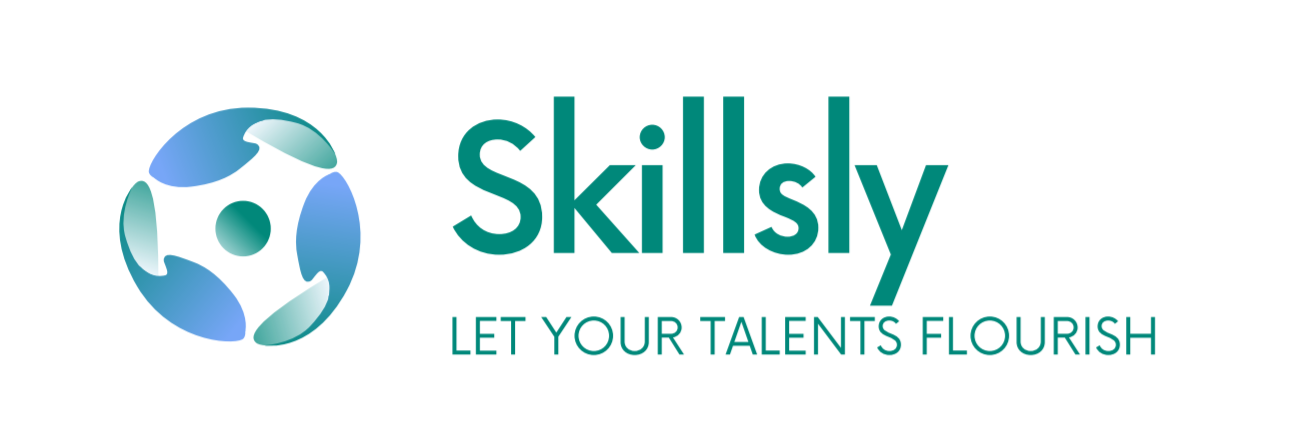
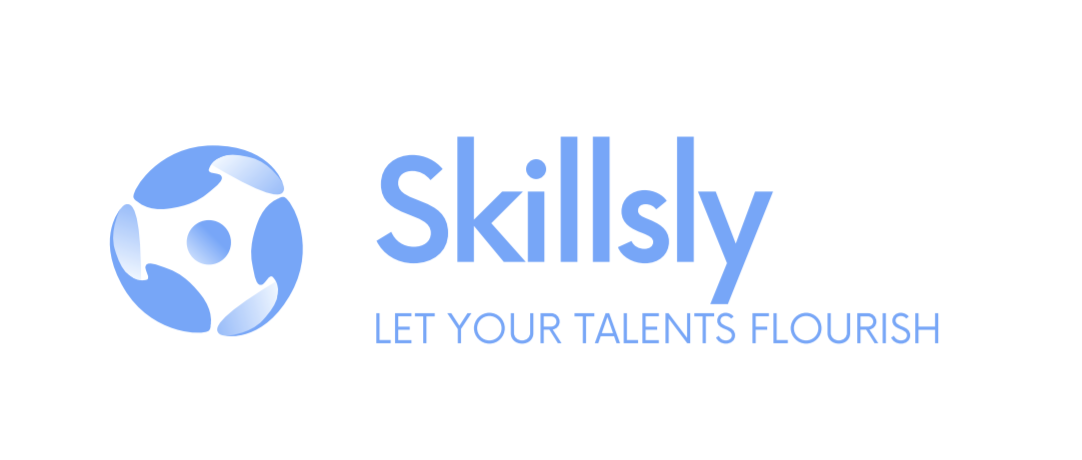
redesign finished

Changed region(s): [[0.3355, 0.2068, 0.915, 0.8273], [0.0915, 0.2364, 0.305, 0.7977]]

diff --git a/src/app/auth/register/register.component.html b/src/app/auth/register/register.component.html
@@ -1,83 +1,57 @@
-<!-- Login box.scss -->
-<!-- ============================================================== -->
-<div class="auth-wrapper d-flex no-block justify-content-center align-items-center bg-dark h-100">
-  <div class="auth-box bg-dark border-top border-secondary">
-    <div>
-      <div class="text-center pt-3 pb-3">
-                <span class="db"><img src="../assets/images/logo.png" alt="logo"
-                /></span>
-      </div>
-      <!-- Form -->
-      <form class="form-horizontal mt-3" [formGroup]="form" (ngSubmit)="saveForm()">
-        <div class="row pb-4">
-          <div class="col-md-auto">
-            <div class="input-group mb-3">
-              <div class="input-group-prepend">
-                <span class="input-group-text bg-success text-white h-100" id="basic-addon1"><i
-                  class="mdi mdi-account fs-4"></i></span>
-              </div>
-              <input type="text" class="form-control form-control-lg" formControlName="name" placeholder="Tu Nombre"
-                     aria-label="Username" aria-describedby="basic-addon1" required/>
-            </div>
-            <div class="col text-danger">
-              <p *ngIf="invalidInput('name')">* El nombre es obligatorio, mínimo 4 carácteres</p>
-            </div>
-            <div class="input-group mb-3">
-              <div class="input-group-prepend">
-                <span class="input-group-text bg-danger text-white h-100" id="basic-addon1"><i
-                  class="mdi mdi-email fs-4"></i></span>
-              </div>
-              <input type="text" class="form-control form-control-lg" formControlName="email" placeholder="Tu Email"
-                     aria-label="Username" aria-describedby="basic-addon1" required/>
-            </div>
-            <div class="col text-danger">
-              <p *ngIf="invalidInput('email')">* El email es obligatorio y tiene que ser válido</p>
-            </div>
-            <div class="input-group mb-3">
-              <div class="input-group-prepend">
-                <span class="input-group-text bg-warning text-white h-100" id="basic-addon2"><i
-                  class="mdi mdi-lock fs-4"></i></span>
-              </div>
-              <input type="password" class="form-control form-control-lg" formControlName="password" [feedback]="false"
-                     placeholder="Tu Contraseña" aria-label="Password" aria-describedby="basic-addon1" required
-                     pPassword/>
-            </div>
-            <div class="col text-danger">
-              <p *ngIf="invalidInput('password')">* La contraseña es obligatoria y debe contener:</p>
-              <ul _ngcontent-cmx-c54="" *ngIf="invalidInput('password')">
-                <li _ngcontent-cmx-c54="">Al menos una minúscula</li>
-                <li _ngcontent-cmx-c54="">Al menos una mayúscula</li>
-                <li _ngcontent-cmx-c54="">Al menos un número</li>
-                <li _ngcontent-cmx-c54="">Mínimo 8 carácteres</li>
-              </ul>
-            </div>
-            <div class="input-group mb-3">
-              <div class="input-group-prepend">
-                <span class="input-group-text bg-info text-white h-100" id="basic-addon2"><i
-                  class="mdi mdi-brightness-6 fs-4"></i></span>
-              </div>
-              <p-calendar placeholder="Tu Fecha de Nacimiento" [maxDate]="today" formControlName="date_of_birth"
-                          dateFormat="dd/mm/yy" [yearNavigator]="true" yearRange="1930:2021" [readonlyInput]="true"
-                          inputId="monthpicker" [showIcon]="true"></p-calendar>
-            </div>
-          </div>
+<div class="row justify-content-center" style="height: 100%;">
+    <div class="col-md-4 align-self-center text-end">
+        <div class="img">
+            <img src="../../../assets/images/logo.png" width="100%" height="100%">
         </div>
-        <div class="row border-top border-secondary ">
-          <div class="col-12 ">
-            <div class="form-group ">
-              <div class="pt-3 d-grid ">
-                <button class="btn btn-block btn-lg btn-info " type="submit">
-                  Registrarse
-                </button>
-                <a class="mt-2" [routerLink]="['/login']">¿Ya tienes una cuenta?</a>
-              </div>
-            </div>
-          </div>
-        </div>
-      </form>
     </div>
-  </div>
+    <div class="col-md-6 align-self-center">
+        <div class="card m-md-4">
+            <div class="title mt-md-4 text-center">
+                <h3>Únete a la familia de Skillsly</h3>
+            </div>
+            <form class="m-md-5 mt-md-1 mb-md-1" [formGroup]="form" (ngSubmit)="saveForm()">
+                <p-divider></p-divider>
+                <div class="mt-md-4">
+                    <span class="p-float-label p-input-icon-left" style="width: 100%;">
+                          <i class="pi pi-user"></i>
+                          <input style="width: 100%;" id="float-input" type="text" formControlName="name" pInputText> 
+                          <label for="float-input">Nombre</label>
+                      </span>
+                    <div class="error mt-md-2">
+                        <p *ngIf="invalidInput('name')">El nombre debe contener mínimo 4 carácteres.</p>
+                    </div>
+                </div>
+                <div class="mt-md-4">
+                    <span class="p-float-label p-input-icon-left" style="width: 100%;">
+                        <i class="pi pi-envelope"></i>
+                        <input style="width: 100%;" id="float-input" type="text" formControlName="email" pInputText> 
+                        <label for="float-input">Correo</label>
+                    </span>
+                    <div class="error mt-md-2">
+                        <p *ngIf="invalidInput('email')">El email tiene que ser válido.</p>
+                    </div>
+                </div>
+                <div class="mt-md-4">
+                    <span class="p-float-label p-input-icon-left" style="width: 100%;">
+                        <i class="pi pi-lock"></i>
+                        <input style="width: 100%;" id="float-input" type="password" formControlName="password" pInputText> 
+                        <label for="float-input">Contraseña</label>
+                    </span>
+                    <div class="error mt-md-2">
+                        <p *ngIf="invalidInput('password')">La contraseña debe contener al menos 8 cáracteres, una minúscula, una mayúscula y un número.</p>
+                    </div>
+                </div>
+                <div class="mt-md-4">
+                    <p-calendar placeholder="Fecha de nacimiento" [touchUI]="true" [showIcon]="true" [maxDate]="today" formControlName="date_of_birth" dateFormat="dd/mm/yy " [yearNavigator]="true " yearRange="1930:2021" [readonlyInput]="true " inputId="monthpicker"></p-calendar>
+                </div>
+                <div class="mt-md-3">
+                    <button pButton type="submit" label="Registrarse"></button>
+                </div>
+                <p-divider></p-divider>
+                <div class="already mt-2">
+                    <a [routerLink]="[ '/login'] ">¿Ya tienes una cuenta?</a>
+                </div>
+            </form>
+        </div>
+    </div>
 </div>
-
-<!-- ============================================================== -->
-<!-- Login box.scss -->

diff --git a/src/app/auth/login/login.component.html b/src/app/auth/login/login.component.html
@@ -1,92 +1,43 @@
-<div class="row justify-content-center">
-    <div class="col-xs-3 col-md-5">
-        <div class="card">
+<div class="row justify-content-center" style="height: 100%;">
+    <div class="col-md-4 align-self-center">
+        <div class="card m-md-4">
             <div class="img">
                 <p-image src="../../../assets/images/Skillsly.png" width="100%" height="50%"></p-image>
             </div>
-            <div class="login m-xs-2 m-md-2">
-                <div>
-                    <h3>Iniciar Sesión</h3>
-                </div>
-                <form class="signin-form" [formGroup]="form" (ngSubmit)="saveForm()">
-                    <div class="form-group mt-4">
+            <div class="">
+                <form class="m-md-5 mt-md-1 mb-md-1" [formGroup]="form" (ngSubmit)="saveForm()">
+                    <div class="mt-md-4">
                         <span class="p-float-label p-input-icon-left" style="width: 100%;">
                             <i class="pi pi-envelope"></i>
-                            <input style="width: 100%;" id="float-input" type="text" pInputText> 
+                            <input style="width: 100%;" id="float-input" type="text" formControlName="email" pInputText> 
                             <label for="float-input">Correo</label>
                         </span>
-                    </div>
-                    <div class="form-group">
-                        <input id="password-field" type="password" class="form-control" required="">
-                        <label class="form-control-placeholder" for="password">Password</label>
-                        <span toggle="#password-field" class="fa fa-fw fa-eye field-icon toggle-password"></span>
-                    </div>
-                    <div class="form-group">
-                        <button type="submit" class="form-control btn btn-primary rounded submit px-3">Sign In</button>
-                    </div>
-                    <div class="form-group d-md-flex">
-                        <div class="w-50 text-md-right">
-                            <a href="#">Forgot Password</a>
+                        <div class="error mt-md-2">
+                            <p *ngIf="invalidInput('email') || invalidForm()">El email tiene que ser válido.</p>
                         </div>
+                    </div>
+                    <div class="mt-md-4">
+                        <span class="p-float-label p-input-icon-left" style="width: 100%;">
+                            <i class="pi pi-lock"></i>
+                            <input style="width: 100%;" id="float-input" type="password" formControlName="password" pInputText> 
+                            <label for="float-input">Contraseña</label>
+                        </span>
+                        <div class="error mt-md-2">
+                            <p *ngIf="invalidInput('password') || invalidForm()">La contraseña debe contener al menos 8 cáracteres, una minúscula, una mayúscula y un número.</p>
+                        </div>
+                    </div>
+                    <div class="mt-md-3">
+                        <button pButton type="submit" label="Iniciar Sesión"></button>
+                    </div>
+                    <div class="recover mt-md-3">
+                        <a href="">¿Olvidaste tu contraseña?</a>
                     </div>
                 </form>
-                <p class="text-center">Not a member? <a data-toggle="tab" href="#signup">Sign Up</a></p>
+                <p-divider></p-divider>
+                <div class="m-md-5 mt-md-1 mb-md-3">
+                    <button pButton class="info" type="button" [routerLink]="['/register']" label="Registrarse"></button>
+                </div>
             </div>
         </div>
     </div>
 </div>
-<!-- Login box.scss -->
-<!-- ============================================================== -->
-<div class="auth-wrapper d-flex no-block justify-content-center align-items-center bg-dark h-100">
-    <div class="auth-box bg-dark border-top border-secondary">
-        <div id="loginform">
-            <div class="text-center pt-3 pb-3">
-                <span class="db"><img src="../assets/images/logo.png" alt="logo"
-              /></span>
-            </div>
-            <!-- Form -->
-            <form class="form-horizontal mt-3" id="loginform" [formGroup]="form" (ngSubmit)="saveForm()">
-                <div class="row pb-4">
-                    <div class="col-12">
-                        <div class="input-group mb-3">
-                            <div class="input-group-prepend">
-                                <span class="input-group-text bg-success text-white h-100" id="basic-addon1"><i class="mdi mdi-account fs-4"></i></span>
-                            </div>
-                            <input type="text" class="form-control form-control-lg" formControlName="email" placeholder="Tu email" aria-label="Username" aria-describedby="basic-addon1" required="" />
-                        </div>
-                        <div class="col text-danger">
-                            <p *ngIf="invalidInput('email') || invalidForm()">* El email es obligatorio y tiene que ser válido</p>
-                        </div>
-                        <div class="input-group mb-3">
-                            <div class="input-group-prepend">
-                                <span class="input-group-text bg-warning text-white h-100" id="basic-addon2"><i class="mdi mdi-lock fs-4"></i></span>
-                            </div>
-                            <input type="password" class="form-control form-control-lg" formControlName="password" placeholder="Tu contraseña" aria-label="Password" aria-describedby="basic-addon1" required="" />
-                        </div>
-                        <div class="col text-danger">
-                            <p *ngIf="invalidInput('password') || invalidForm()">* La contraseña es obligatoria y debe contener:</p>
-                            <ul _ngcontent-cmx-c54="" *ngIf="invalidInput('password') || invalidForm()">
-                                <li _ngcontent-cmx-c54="">Al menos una minúscula</li>
-                                <li _ngcontent-cmx-c54="">Al menos una mayúscula</li>
-                                <li _ngcontent-cmx-c54="">Al menos un número</li>
-                                <li _ngcontent-cmx-c54="">Mínimo 8 carácteres</li>
-                            </ul>
-                        </div>
-                    </div>
-                </div>
-                <div class="row border-top border-secondary">
-                    <div class="col-12">
-                        <div class="form-group">
-                            <div class="pt-3">
-                                <button class="btn btn-info ml-3" id="to-recover" [routerLink]="['/register']" type="button"> <i class="mdi mdi-arrow-up fs-4 me-1"> </i>Registrarse</button>
-                                <button class="btn btn-success float-end text-white" type="submit">Iniciar sesión</button>
-                            </div>
-                        </div>
-                    </div>
-                </div>
-            </form>
-        </div>
-    </div>
-</div>
-<!-- ============================================================== -->
-<!-- Login box.scss -->

diff --git a/src/styles.css b/src/styles.css
@@ -8,6 +8,7 @@ body {
 body {
     margin: 0;
     font-family: Roboto, sans-serif;
+    background-color: #f2f8ff;
 }
 
 .card {
@@ -16,10 +17,51 @@ body {
 }
 
 .p-inputtext:enabled:focus {
-    border-color: #4D80CA !important;
-    box-shadow: 0 0 0 0.02rem green !important;
+    border-color: #00887A !important;
+    box-shadow: 0 0 0 0.02rem #00887A !important;
 }
 
 .p-inputtext:hover {
-    box-shadow: 0 0 0 0.02rem green !important;
+    box-shadow: 0 0 0 0.02rem #00887A !important;
+}
+
+.p-inputtext.ng-dirty.ng-invalid,
+.p-inputtext.ng-touched.ng-invalid {
+    border-color: #FC6662 !important;
+}
+
+.p-float-label>.ng-invalid.ng-dirty+label,
+.p-float-label>.ng-invalid.ng-touched+label {
+    color: #FC6662 !important;
+}
+
+.p-button {
+    width: 100% !important;
+    background-color: #00887A !important;
+}
+
+.p-calendar {
+    width: 100% !important;
+}
+
+.p-calendar.p-calendar-w-btn .p-inputtext {
+    order: 2 !important;
+    border-top-right-radius: 3px !important;
+    border-bottom-right-radius: 3px !important;
+    border-top-left-radius: 0 !important;
+    border-bottom-left-radius: 0 !important;
+    border-color: black !important;
+    background-color: black;
+}
+
+.p-calendar.p-calendar-w-btn .p-datepicker-trigger {
+    order: 1 !important;
+    border-top-left-radius: 3px !important;
+    border-bottom-left-radius: 3px !important;
+    border-top-right-radius: 0 !important;
+    border-bottom-right-radius: 0 !important;
+    border-color: black !important;
+    background-color: black !important;
+    width: 100% !important;
+    color: white !important;
 }

diff --git a/src/app/auth/auth.module.ts b/src/app/auth/auth.module.ts
@@ -4,13 +4,14 @@ import { ReactiveFormsModule } from '@angular/forms';
 import { CalendarModule } from 'primeng/calendar';
 import { BrowserAnimationsModule } from '@angular/platform-browser/animations';
 import { PasswordModule } from 'primeng/password';
-
 import { RegisterComponent } from './register/register.component';
 import { LoginComponent } from './login/login.component';
 import { RouterModule } from '@angular/router';
 import { AccountService } from '../services/account.service';
 import {ImageModule} from 'primeng/image';
 import {InputTextModule} from 'primeng/inputtext';
+import {ButtonModule} from 'primeng/button';
+import {DividerModule} from 'primeng/divider';
 
 @NgModule({
   declarations: [RegisterComponent, LoginComponent],
@@ -23,7 +24,9 @@ import {InputTextModule} from 'primeng/inputtext';
     PasswordModule,
     RouterModule,
     ImageModule, 
-    InputTextModule
+    InputTextModule, 
+    ButtonModule, 
+    DividerModule
   ],
   exports: [RegisterComponent],
 })

diff --git a/src/app/auth/register/register.component.ts b/src/app/auth/register/register.component.ts
@@ -39,6 +39,7 @@ export class RegisterComponent {
         )
       ]],
       password: ['', [
+        Validators.required,
         Validators.pattern(
           /^(?=.*\d)(?=.*[a-z])(?=.*[A-Z])(?=.*[^a-zA-Z0-9])(?!.*\s).{8,15}$/
         )

diff --git a/src/app/auth/login/login.component.css b/src/app/auth/login/login.component.css
@@ -1,0 +1,11 @@
+.error {
+    color: #FC6662;
+}
+
+.info {
+    background-color: #77A6F7 !important;
+}
+
+.recover {
+    text-align: center;
+}

diff --git a/src/app/auth/register/register.component.css b/src/app/auth/register/register.component.css
@@ -1,0 +1,11 @@
+.error {
+    color: #FC6662;
+}
+
+.already {
+    text-align: center;
+}
+
+.title {
+    color: #77A6F7;
+}
